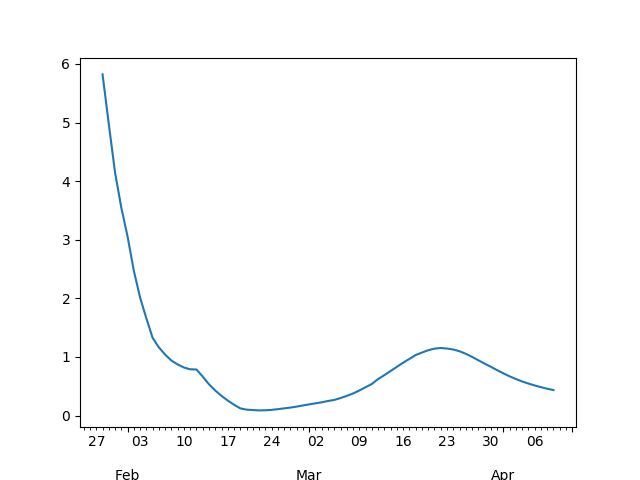
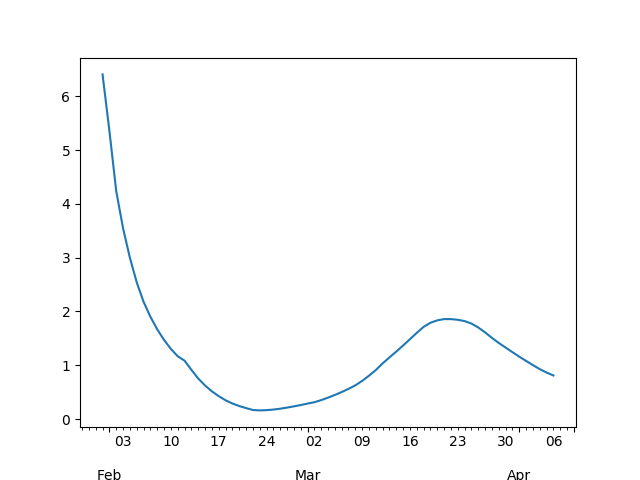
-

diff --git a/en/tweets/2020/week16d.md b/en/tweets/2020/week16d.md
@@ -23,14 +23,14 @@ the Libyan National Army"
 
 ---
 
-Attempted at an R0 estimate, if we [go by](https://www.ncbi.nlm.nih.gov/pmc/articles/PMC6002118/)
-"[t]he epidemiologicaldefinition of R0 is the average number of
-secondary cases produced by one infected individual introduced into a
-population of susceptible individuals", then say it takes 7 days for
-the symptoms to occur after infection, then average of last 7 days
-would effect the average of next 7 days, new cases then divided by the
-past average can give an R0 estimate. The estimate shows the world is
-below 1, R0 < 1.
+Attempted at an R0 estimate, if we [go
+by](https://www.ncbi.nlm.nih.gov/pmc/articles/PMC6002118/) "[t]he
+epidemiologicaldefinition of R0 is the average number of secondary
+cases produced by one infected individual introduced into a population
+of susceptible individuals", then say it takes N days for the symptoms
+to occur after infection, then average of last N days would effect the
+average of next N days, new cases then divided by the past average can
+give an R0 estimate. The estimate shows the world has now R0 < 1.
 
 [Link](https://muratk3n.github.io/thirdwave/en/2020/02/corona_math.html#r0est)
 
@@ -328,7 +328,7 @@ IDENTIFYING AN INCOMING WORLDKILLER ASTEROID AND NUKING IT TO SHREDS?"
 
 ---
 
-Output cuts won't offset market rout: IEA
+"Output cuts won't offset market rout": IEA
 
 *2020-4-15 14:45:22*
 

diff --git a/en/2020/02/corona_math.md b/en/2020/02/corona_math.md
@@ -110,7 +110,7 @@ with zipfile.ZipFile('/tmp/corona-time.zip', 'r') as z:
 #df = df[df['Country/Region']=='US']
 df = df[['Date','Confirmed']]
 conf = df.groupby('Date').sum()
-ahead = 7
+ahead = 10
 conf['ma'] = conf.rolling(ahead).mean()
 conf['ah'] = conf.ma.shift(-ahead)
 conf['R0'] = (conf.ah - conf.ma) / conf.ma
@@ -121,11 +121,11 @@ plt.savefig('R0est.png')
 
 ```text
 Date
-2020-04-05    0.546034
-2020-04-06    0.513327
-2020-04-07    0.484892
-2020-04-08    0.457720
-2020-04-09    0.434696
+2020-04-02    1.080244
+2020-04-03    1.001685
+2020-04-04    0.927791
+2020-04-05    0.863704
+2020-04-06    0.810089
 Name: R0, dtype: float64
 ```
 
